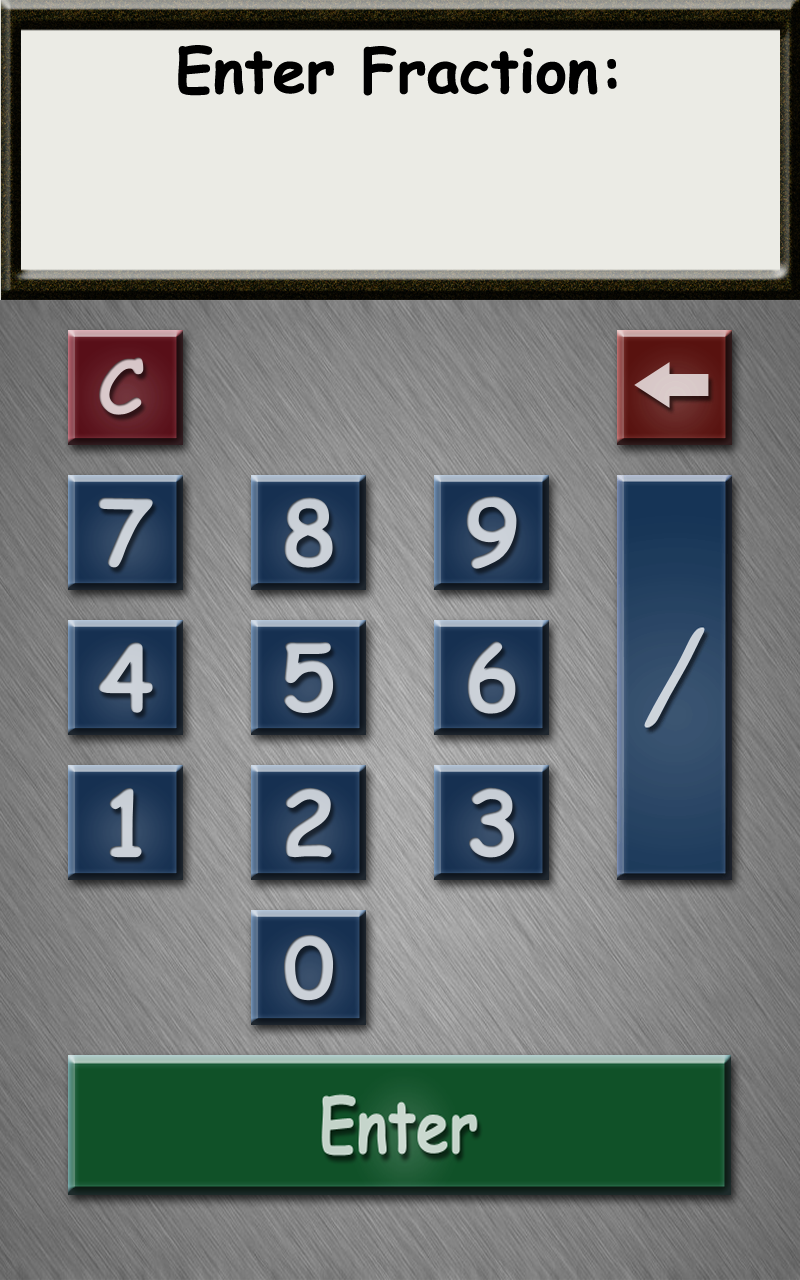
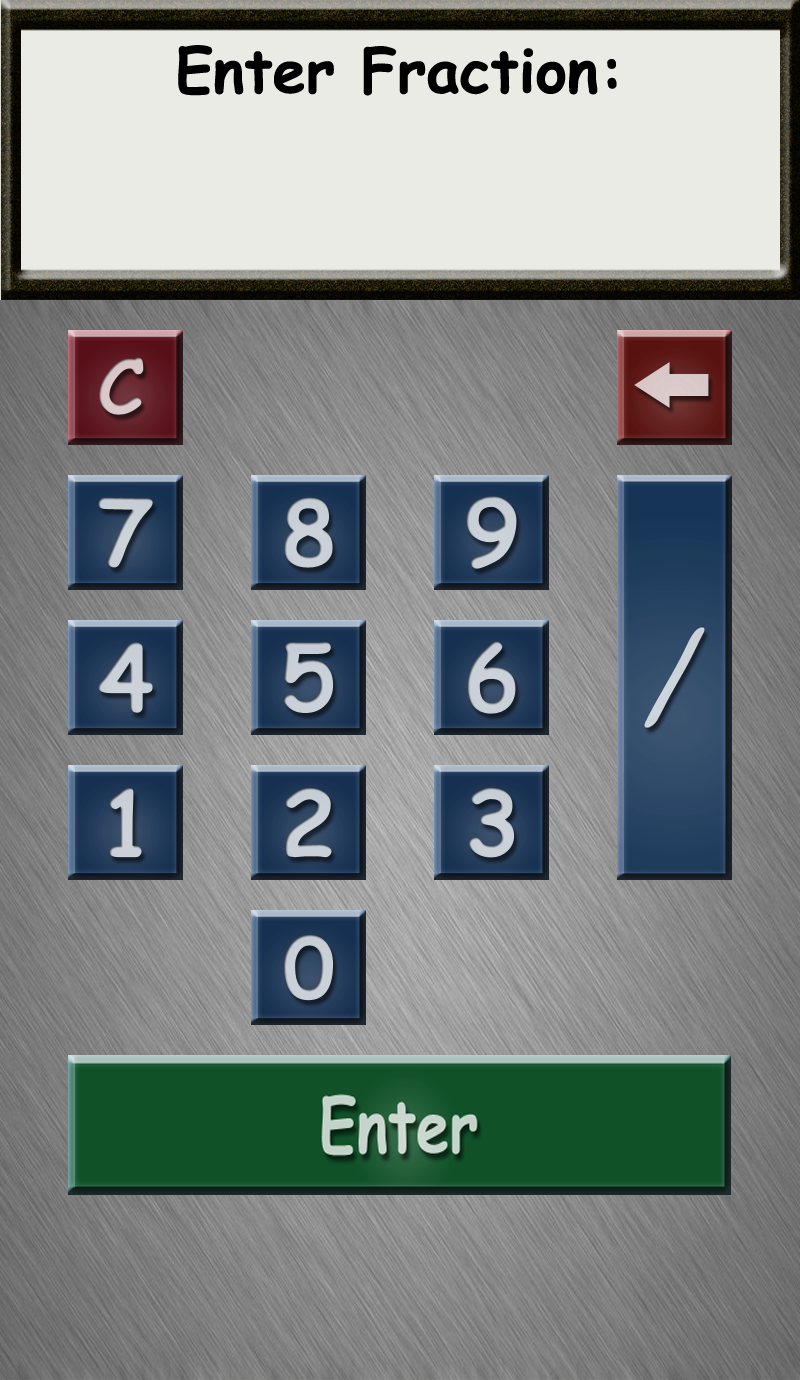
Extended images for ads
changed min sdk version from 8 to 9

diff --git a/src/com/RandNprograming/tapemeasurecalculator/impl/AndroidTapemeasureCalculator.java b/src/com/RandNprograming/tapemeasurecalculator/impl/AndroidTapemeasureCalculator.java
@@ -22,7 +22,6 @@ public abstract class AndroidTapemeasureCalculator extends Activity implements C
     Screen screen;
     AdView adView;
 
-
     @Override
     public void onCreate(Bundle savedInstanceState) {
         super.onCreate(savedInstanceState);
@@ -30,7 +29,7 @@ public abstract class AndroidTapemeasureCalculator extends Activity implements C
         requestWindowFeature(Window.FEATURE_NO_TITLE);
 
         int frameBufferWidth = 800;
-        int frameBufferHeight = 1280;
+        int frameBufferHeight = 1380;
         Bitmap frameBuffer = Bitmap.createBitmap(frameBufferWidth, frameBufferHeight, Bitmap.Config.RGB_565);
 
         float scaleX = (float)frameBufferWidth / getWindowManager().getDefaultDisplay().getWidth();
